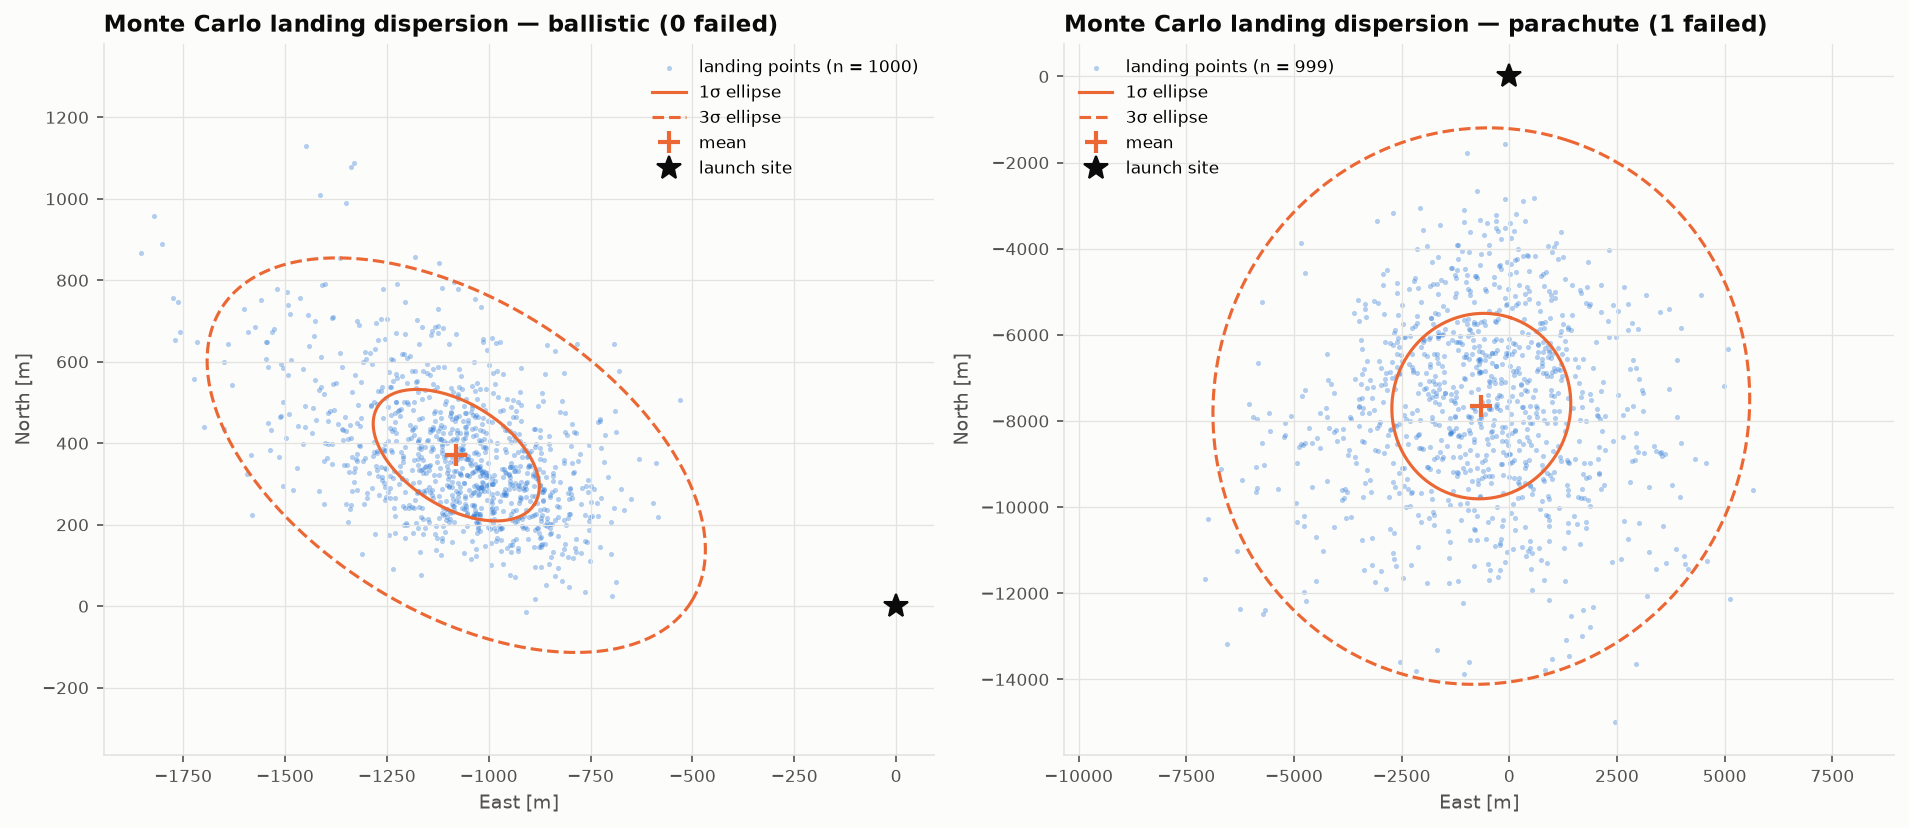
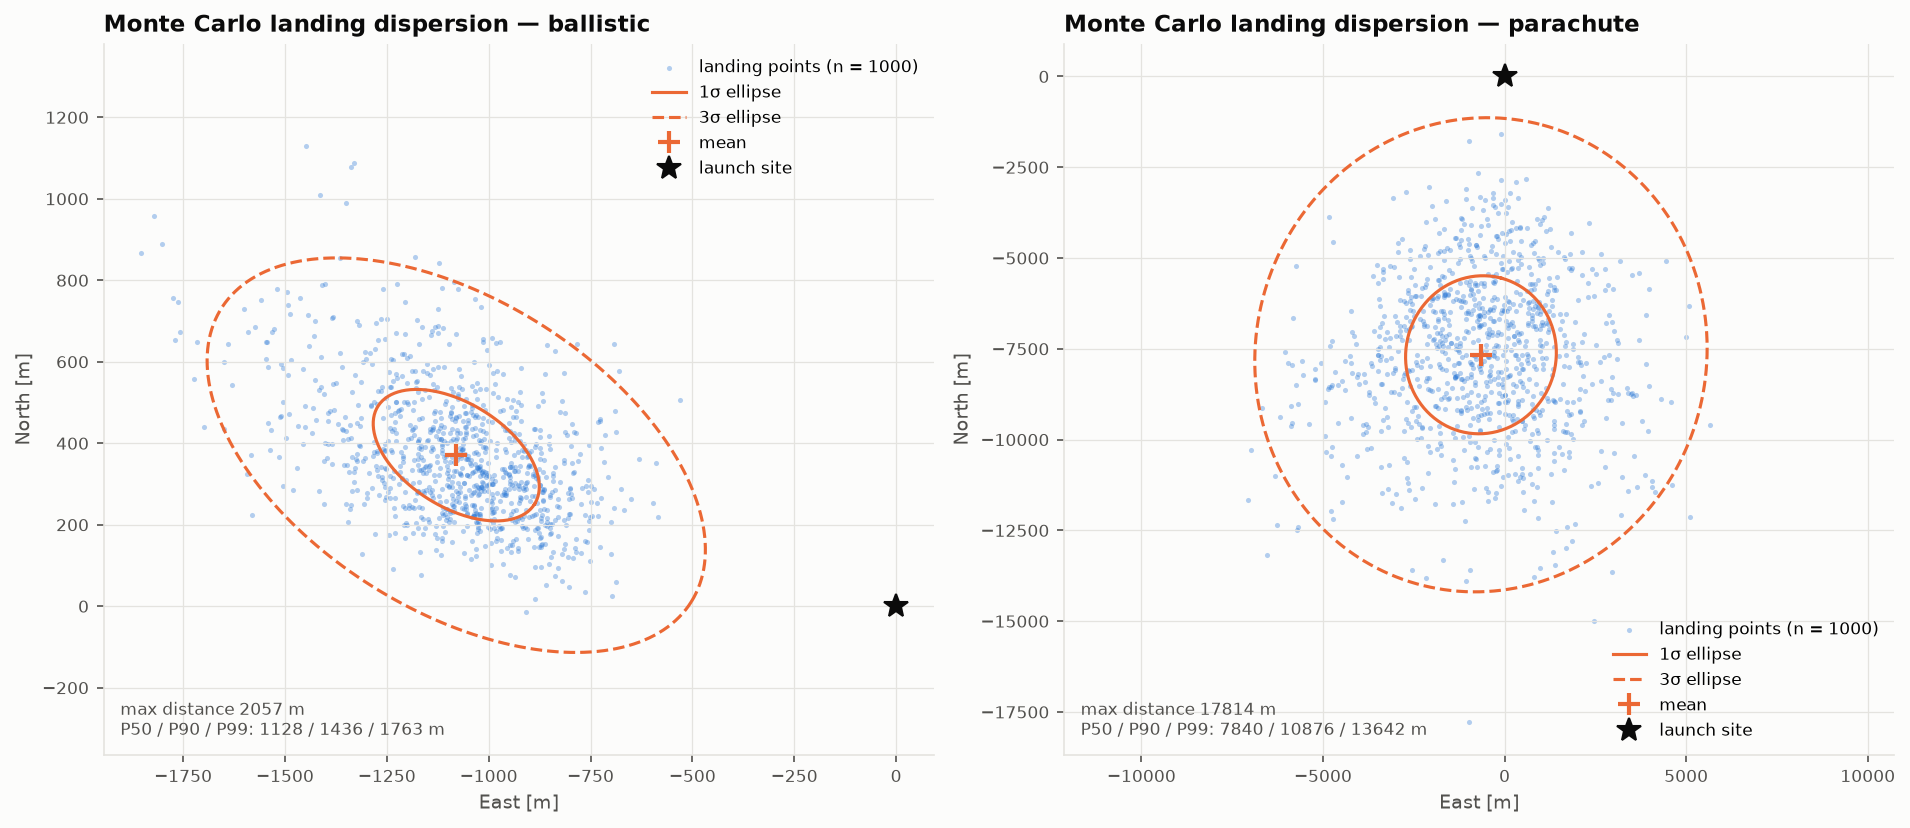
docs: refresh the Monte Carlo example results, figure and README image

diff --git a/doc/source/dispersion.rst b/doc/source/dispersion.rst
@@ -239,6 +239,8 @@
 どちらかの値が 0 でないときだけ、風を作り直す（:ref:`sec-wind-scaling`）。高度別の表（``profile``）では、
 表全体が拡大・回転するので、基準高度の風が新しい値になる。
 
+.. _sec-mc-failure:
+
 失敗の扱い
 ~~~~~~~~~~
 
@@ -334,7 +336,7 @@
 ~~~~~~~~
 
 サンプル（射角 85°、射方位 270°、北風 4 m/s、``rk45``）に既定のばらつきを与えて 1000 サンプルを計算した結果を :numref:`fig-dispersion-mc` と :numref:`tbl-mc-result` に示す。
-計算時間は 1000 サンプル × 2 降下モードで約 0.8 s である（20 スレッドの CPU）。
+計算時間は 1000 サンプル × 2 降下モードで約 1.1 s である（20 スレッドの CPU）。
 この図と表は、ドキュメントのビルド時に同じ設定で生成する（``make data``）。
 
 .. _fig-dispersion-mc:
@@ -343,7 +345,7 @@
    :width: 100%
 
    モンテカルロ解析による着地点の分布。点が各サンプルの着地点、十字が平均、実線と破線が :math:`1\sigma`、:math:`3\sigma` の誤差楕円、星が射点。
-   左が弾道落下、右がパラシュート降下（失敗した 1 サンプルを除く 999 点）。
+   左が弾道落下、右がパラシュート降下（どちらも 1000 点）。
 
 .. _tbl-mc-result:
 
@@ -356,36 +358,40 @@
      - パラシュート降下
    * - 有効サンプル数 / 失敗
      - 1000 / 0
-     - 999 / 1
+     - 1000 / 0
    * - 着地点の平均 東 / 北 [m]
      - −1079.7 / 370.8
-     - −650.5 / −7653.7
+     - −650.8 / −7663.8
    * - :math:`1\sigma` 楕円 長半径 × 短半径 [m]
      - 226.6 × 127.4
-     - 2162.5 × 2067.8
+     - 2183.5 × 2068.3
    * - :math:`3\sigma` 楕円 長半径 × 短半径 [m]
      - 679.9 × 382.2
-     - 6487.4 × 6203.4
+     - 6550.6 × 6204.9
    * - 長軸の方位 [deg]
      - 122
-     - 18
+     - 15
+   * - 着地距離 P50 / P90 / P99 [m]
+     - 1127.7 / 1435.9 / 1762.7
+     - 7839.6 / 10876.0 / 13641.7
    * - 最大着地距離 [m]（サンプル番号）
      - 2057.2（835）
-     - 15196.3（935）
+     - 17813.8（830）
    * - 頂点高度の平均 ± 標準偏差 [m]
      - 4480.4 ± 487.8
-     - 4477.7 ± 480.2
+     - 4480.4 ± 487.8
 
 弾道落下の分布は、射点の西から北西に向かって細長く広がる（長軸の方位は約 122°）。
 パラシュート降下は、降下中に風で長く流されるので、主に風速・風向のばらつきが着地点の広がりになる。
-広がりは約 2 km（:math:`1\sigma`）で、弾道落下より 1 桁大きい。長半径と短半径がほぼ等しい（2162 m と 2068 m）ので、長軸の方位はあまり意味を持たない。
+広がりは約 2 km（:math:`1\sigma`）で、弾道落下より 1 桁大きい。長半径と短半径がほぼ等しい（2184 m と 2068 m）ので、長軸の方位はあまり意味を持たない。
 実際の分布が正規分布から少しずれていることは、:math:`1\sigma`、:math:`3\sigma` 楕円の内側に入る点の割合
 （弾道落下で 43 %、98 %、パラシュート降下で 41 %、99 %）が正規分布の 39 %、99 % とやや違うことにも表れている。
 頂点高度の平均（4480 m）は、公称の飛翔（4441 m）より 40 m ほど高い。ばらつきの分布は平均について対称でも、頂点高度は推力や抗力係数に対して線形ではないので、平均は公称値と一致しない。
 
-この表の計算では、パラシュート降下の 830 番の 1 サンプルが、``max_time`` までに着地しなかった（同じサンプルの弾道落下は正常に着地している）。
-失敗は統計から除かれ、表の有効サンプル数に反映される。この場合、パラシュート降下の統計は不完全（``complete = false``）で、最大着地距離（表の 15196.3 m）は下限であり、実行は終了ステータス 3 で終わる。
-弾道落下は 1000 サンプルがすべて着地したので、完全な統計である。
+この計算では、どちらの降下モードも 1000 サンプルがすべて着地したので、``failed`` と ``not_landed`` は 0、``complete`` は ``true`` で、統計は完全である。
+着地距離は、弾道落下で P50 が 1128 m、P90 が 1436 m、P99 が 1763 m、パラシュート降下で P50 が 7840 m、P90 が 10876 m、P99 が 13642 m である。
+最大着地距離はパラシュート降下の 830 番の 17814 m で、P99 より 4 km ほど遠い。分布の裾が長いので、保安域の半径は誤差楕円よりパーセンタイルや最大値で考えるとよい。
+着地しないサンプルがあるときの扱いは、:ref:`sec-mc-failure` に述べた。
 
 Google Earth での確認
 ---------------------
@@ -404,6 +410,7 @@ Google Earth での確認
 フォルダ ``Dispersion – Monte Carlo``\ （``mode = "monte_carlo"``）
    降下モードごとに、平均着地点、:math:`1\sigma` と :math:`3\sigma` の誤差楕円（:numref:`fig-error-ellipse`）、各サンプルの着地点が入る。
    サンプル数が多いときは、フォルダ ``Landing points`` の表示を切ると楕円だけを見られる。失敗したサンプルと着地しなかったサンプルは含まれない。
+
 風の格子では、着地しなかったケースを輪郭と着地点から除く。KML は、設定のハッシュが現在の設定と一致する結果だけをまとめる（:ref:`sec-kml`）。
 
 図形はすべて地面に固定して描く。KML には射点の標高を含む高度が入るが、落下分散の図形に限れば高度の扱いは結果に影響しない。
